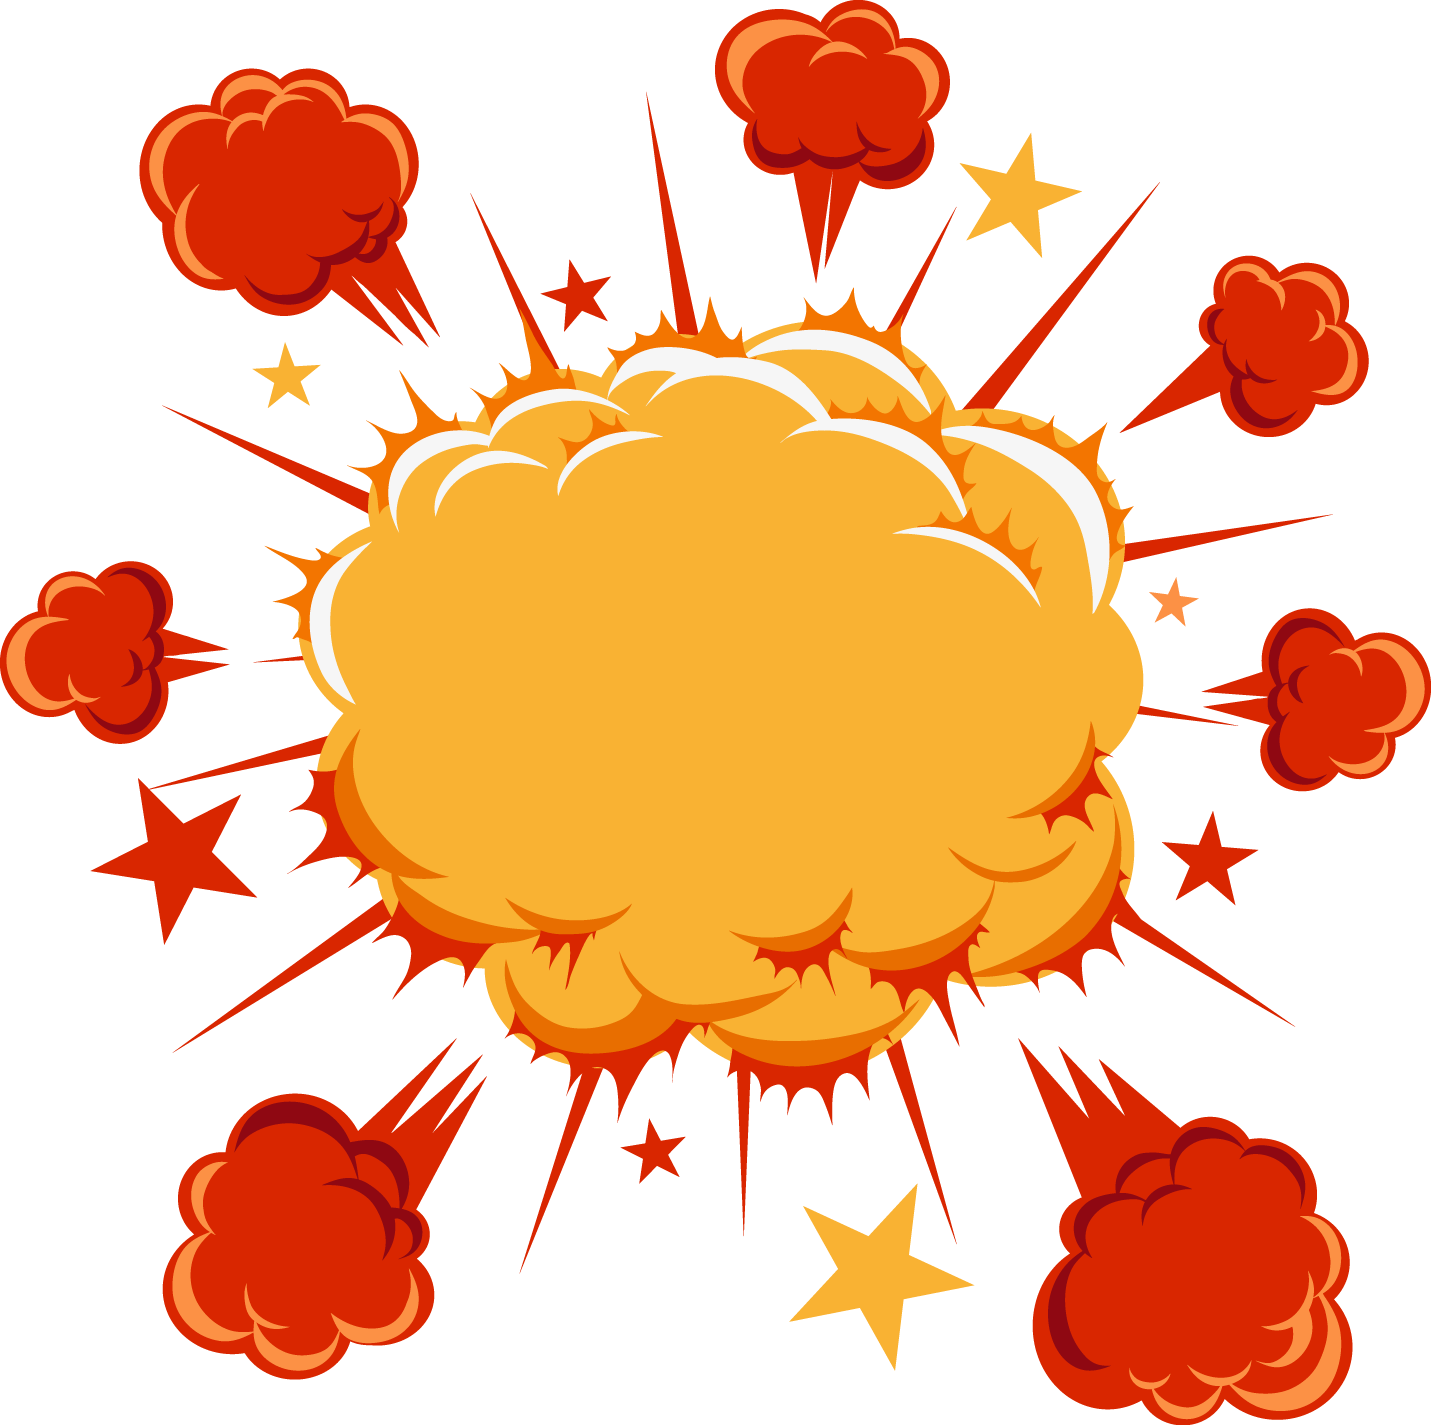
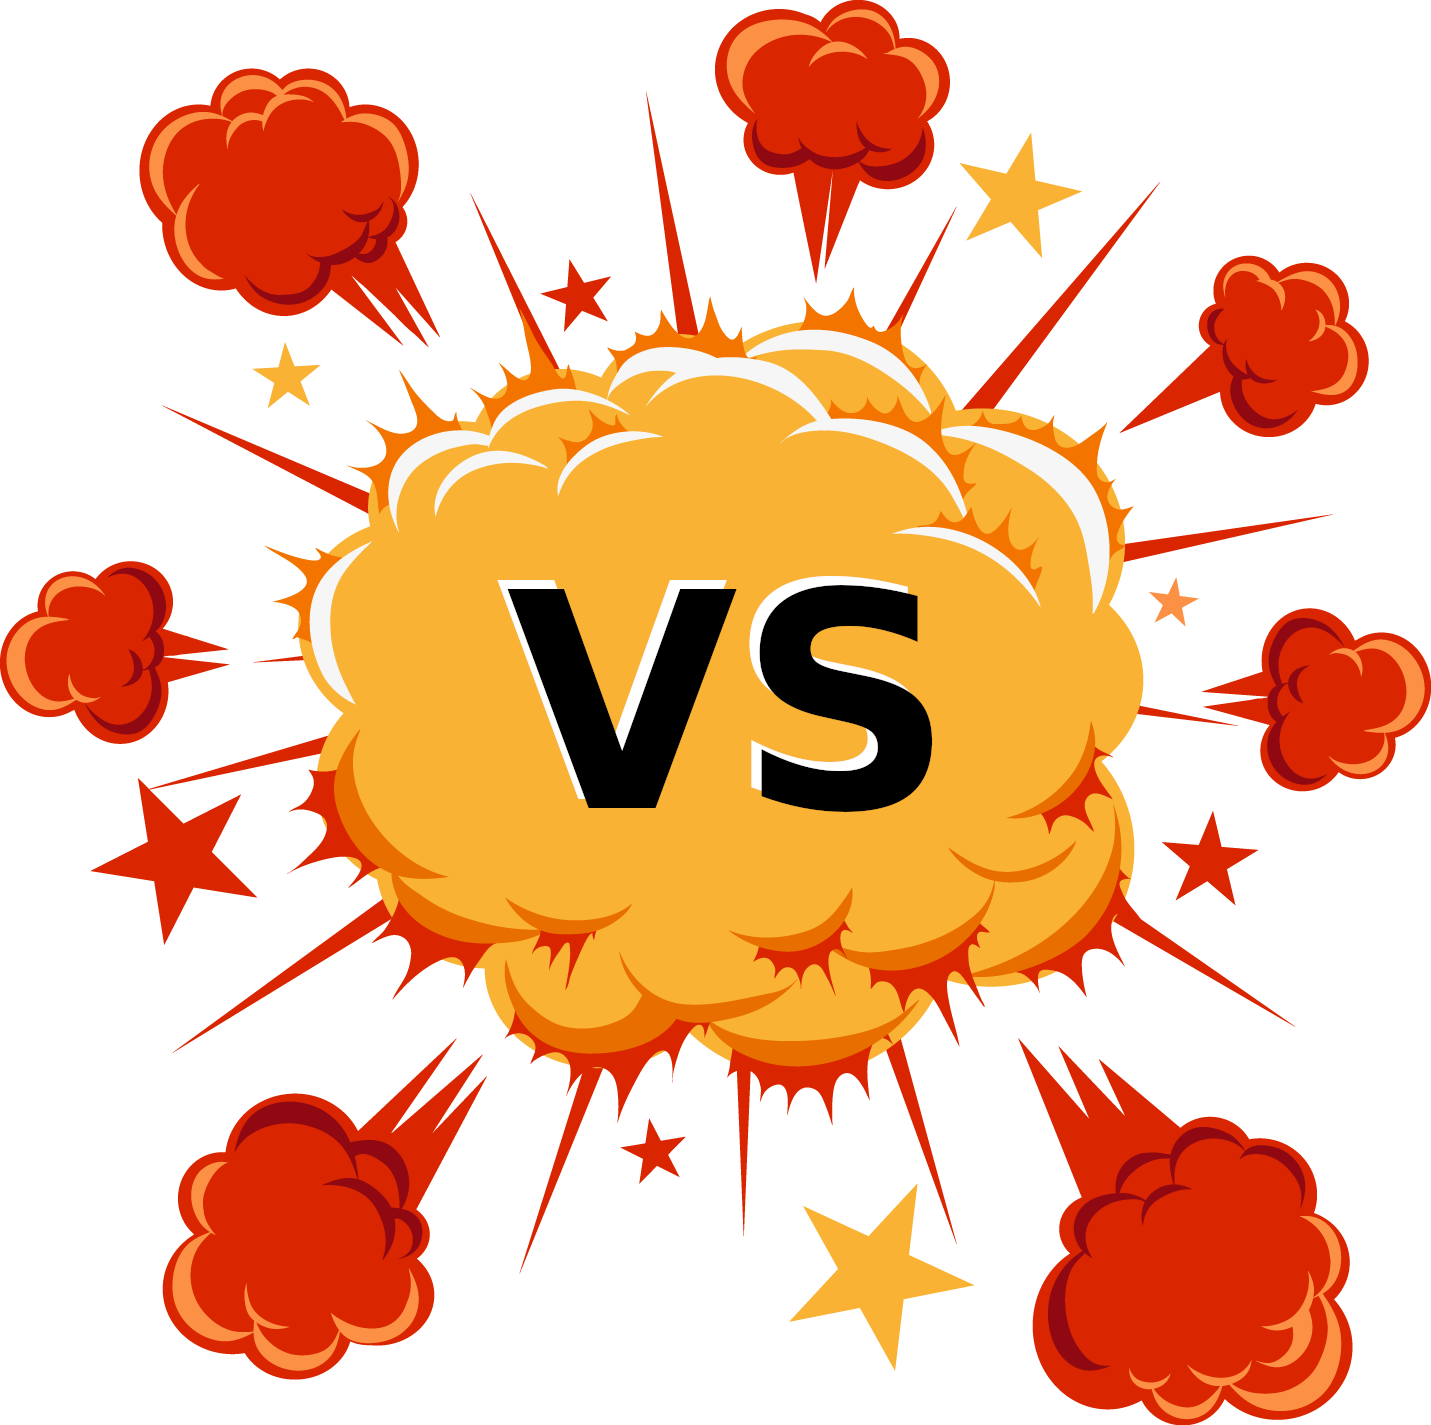
some more fixes to index page

Changed region(s): [[0.3382, 0.4014, 0.6765, 0.5867]]

diff --git a/templates/index.html b/templates/index.html
@@ -11,7 +11,6 @@
         <div class="left">
             <div class="home">
                 <h1>COPENHAGEN ROLLER DERBY A</h1>
-                <img src="{{url_for('static', filename='img/crd_logo.png')}}">
                 <a href="{{url_for('home')}}"><button class="btn btn-dark">See Roster</button></a>
             </div>
         </div>
@@ -19,11 +18,16 @@
         <div class="right">
             <div class="away">
                 <a href="{{url_for('away')}}"><button class="btn btn-dark">See Roster</button></a>
-                <img src="{{url_for('static', filename='img/grd_logo.png')}}">
                 <h1>GOTHENBURG ROLLER DERBY A</h1>
             </div>
         </div>
     </div>
-    <div id="vs"><img src="{{url_for('static', filename='img/explosion.png')}}"><p>VS</p></div>
+    <div id="vs">
+        <img class="logo" src="{{url_for('static', filename='img/crd_logo.png')}}">
+        &nbsp;&nbsp;&nbsp;&nbsp;&nbsp;&nbsp;&nbsp;&nbsp;
+        <img src="{{url_for('static', filename='img/explosion.png')}}">
+        &nbsp;&nbsp;&nbsp;&nbsp;&nbsp;&nbsp;&nbsp;&nbsp;
+        <img class="logo" src="{{url_for('static', filename='img/grd_logo.png')}}">
+    </div>
 </body>
 </html>

diff --git a/static/css/style.css b/static/css/style.css
@@ -66,22 +66,6 @@ html, body {
 
 }
 
-.home img {
-    position: absolute;
-    width: 20%;
-    transform: skew(25deg);
-    margin-left: 20%;
-    top: 25%;
-}
-
-.away img {
-    position: absolute;
-    width: 20%;
-    transform: skew(25deg);
-    margin-right: 20%;
-    top: 25%;
-}
-
 .away {
   background-color: #53773A;
   padding-right: 45%;
@@ -119,13 +103,9 @@ html, body {
 }
 
 #vs img {
-    max-width: 15vw;
-    max-height: 15vw;
+    max-width: 20vw;
+    max-height: 20vw;
     margin: auto;
-}
-#vs p {
-    position: absolute;
-    margin-top: 25%;
 }
 
 p {
